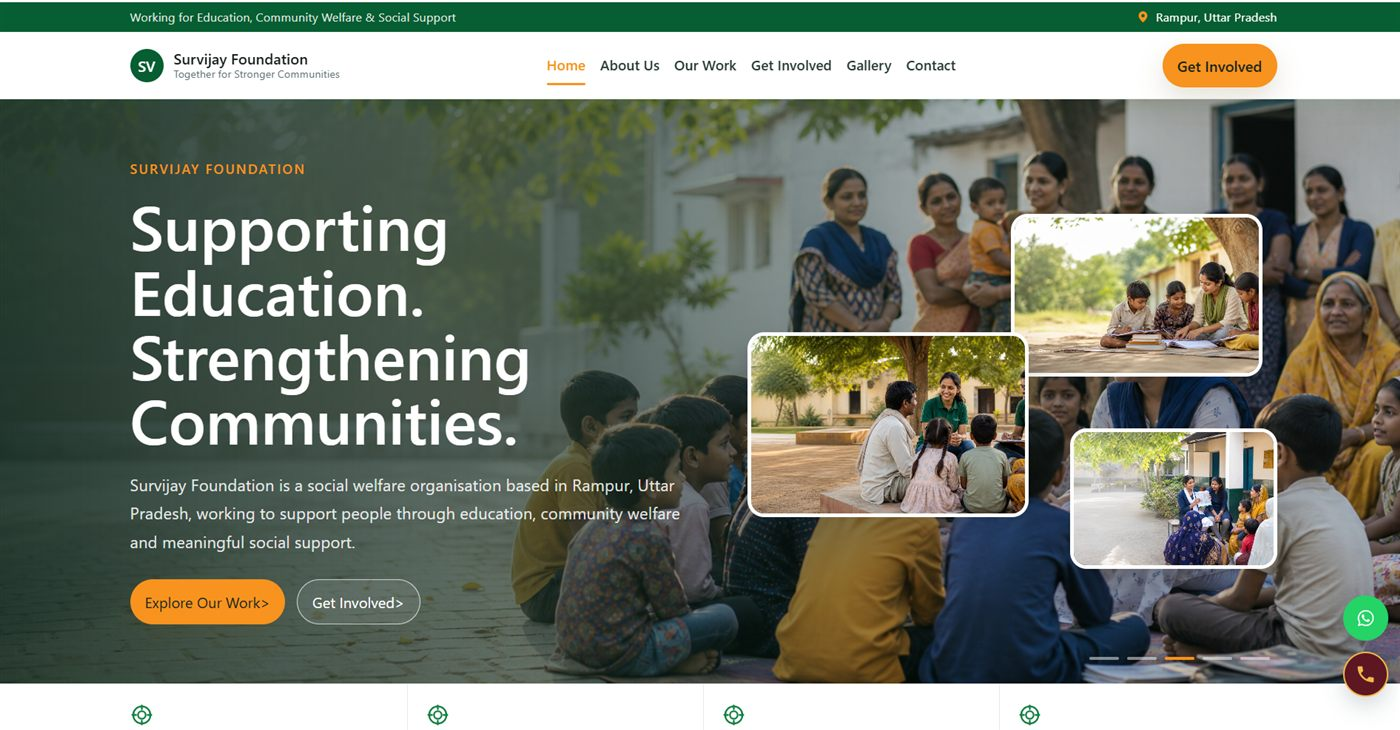
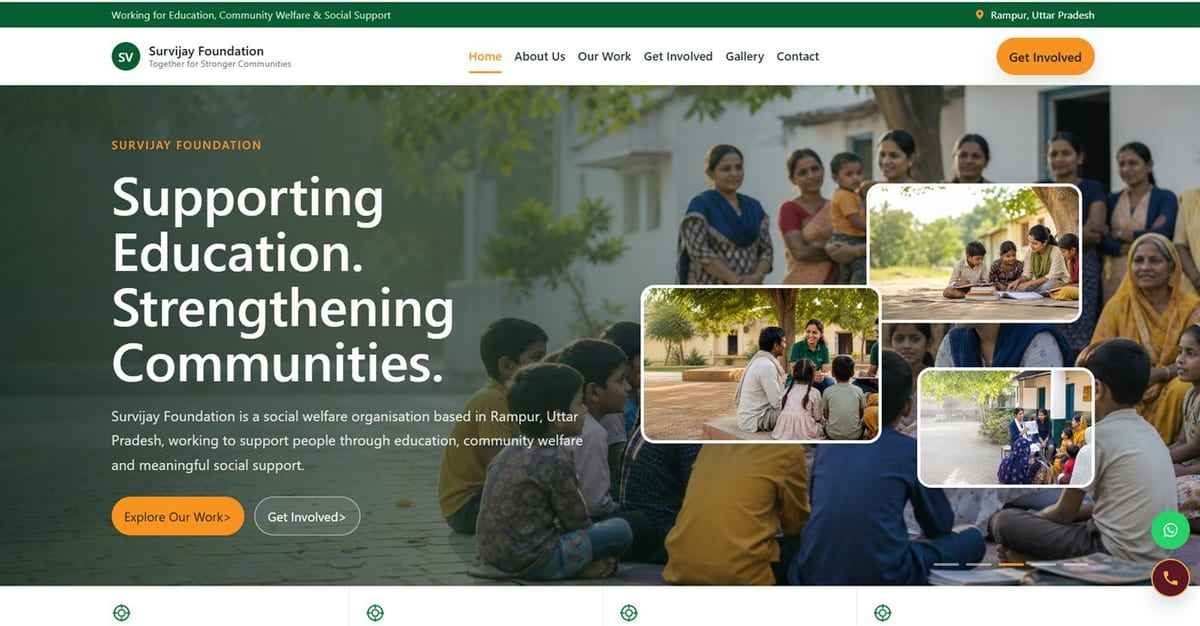
SEo work

diff --git a/lib/seo.ts b/lib/seo.ts
@@ -11,6 +11,9 @@ export function slugUrl(path: string) {
 export const organizationId = `${siteConfig.baseUrl}/#organization`;
 export const websiteId = `${siteConfig.baseUrl}/#website`;
 
+// Default social preview (1200x630). Absolute URL so crawlers never have to resolve it.
+export const ogImage = { url: `${siteConfig.baseUrl}/images/accelise-web-development-og.png`, width: 1200, height: 630, alt: 'Accelise – web development company in Gurgaon and India' };
+
 // Every indexable page builds its metadata here so title, description, canonical and Open Graph always describe the same URL.
 // Titles are passed in full (no layout template) so each one can be tuned to its own length.
 export function pageMetadata({ title, description, path }: { title: string; description: string; path: string }): Metadata {
@@ -20,8 +23,8 @@ export function pageMetadata({ title, description, path }: { title: string; desc
     description,
     alternates: { canonical: url },
     robots: { index: true, follow: true, googleBot: { index: true, follow: true, 'max-image-preview': 'large', 'max-snippet': -1, 'max-video-preview': -1 } },
-    openGraph: { title, description, url, siteName: siteConfig.name, type: 'website', locale: 'en_IN' },
-    twitter: { card: 'summary', title, description },
+    openGraph: { title, description, url, siteName: siteConfig.name, type: 'website', locale: 'en_IN', images: [ogImage] },
+    twitter: { card: 'summary_large_image', title, description, images: [ogImage.url] },
   };
 }
 

diff --git a/app/industries/[slug]/page.tsx b/app/industries/[slug]/page.tsx
@@ -3,7 +3,7 @@ import Link from 'next/link';
 import { notFound } from 'next/navigation';
 import { Breadcrumbs, CTASection, FAQSection, JsonLd, ListBlock, PageHero, PageVisual, RelatedLinks } from '@/components/site';
 import { industries, industryBySlug, projectBySlug, serviceBySlug } from '@/lib/content';
-import { faqSchema, pageMetadata, serviceSchema } from '@/lib/seo';
+import { faqSchema, pageMetadata, serviceSchema, webPageSchema } from '@/lib/seo';
 
 export function generateStaticParams() {
   return industries.map((industry) => ({ slug: industry.slug }));
@@ -60,6 +60,7 @@ export default async function IndustryPage({ params }: { params: Promise<{ slug:
       />
       <FAQSection items={industry.faqs} title={`${industry.shortTitle} websites: common questions`} />
       <CTASection title="Plan your industry website with Accelise" text="Tell us about your business, the enquiries you want and any pages you already have. We will suggest a practical structure and send a clear quote." />
+      <JsonLd data={webPageSchema({ name: industry.seoTitle, description: industry.metaDescription, path: `/industries/${industry.slug}` })} />
       <JsonLd data={serviceSchema({ name: industry.title, description: industry.metaDescription, path: `/industries/${industry.slug}`, serviceType: 'Website development' })} />
       <JsonLd data={faqSchema(industry.faqs)} />
     </main>

diff --git a/app/services/[slug]/page.tsx b/app/services/[slug]/page.tsx
@@ -3,7 +3,7 @@ import Link from 'next/link';
 import { notFound } from 'next/navigation';
 import { Breadcrumbs, CTASection, FAQSection, JsonLd, ListBlock, PageHero, PageVisual, ProjectCards, RelatedLinks } from '@/components/site';
 import { industryBySlug, serviceBySlug, services } from '@/lib/content';
-import { faqSchema, pageMetadata, serviceSchema } from '@/lib/seo';
+import { faqSchema, pageMetadata, serviceSchema, webPageSchema } from '@/lib/seo';
 
 export function generateStaticParams() {
   return services.map((service) => ({ slug: service.slug }));
@@ -64,6 +64,7 @@ export default async function ServiceDetailPage({ params }: { params: Promise<{ 
         links={otherServices.map((item) => ({ href: `/services/${item.slug}`, label: item.title, text: item.summary }))}
       />
       <CTASection title={`Talk to Accelise about ${service.title.toLowerCase().replace('b2b', 'B2B')}`} text="Share your business type, pages, features and timeline to receive a practical consultation before the final quote." />
+      <JsonLd data={webPageSchema({ name: service.seoTitle, description: service.metaDescription, path })} />
       <JsonLd data={serviceSchema({ name: service.title, description: service.metaDescription, path, serviceType: service.title })} />
       <JsonLd data={faqSchema(service.faqs)} />
     </main>

diff --git a/app/layout.tsx b/app/layout.tsx
@@ -3,7 +3,7 @@ import { Inter, Manrope } from 'next/font/google';
 import './globals.css';
 import { JsonLd, LayoutShell } from '@/components/site';
 import { siteConfig, slugUrl, teamMembers } from '@/lib/content';
-import { organizationId, websiteId } from '@/lib/seo';
+import { ogImage, organizationId, websiteId } from '@/lib/seo';
 
 const inter = Inter({ variable: '--font-inter', subsets: ['latin'] });
 const manrope = Manrope({ variable: '--font-manrope', subsets: ['latin'] });
@@ -15,7 +15,7 @@ export const metadata: Metadata = {
   title: { default: 'Web Development Company in India | Accelise', template: '%s | Accelise' },
   description: 'Accelise is a web development company in India building business websites, e-commerce platforms, B2B catalogue websites and custom web applications.',
   applicationName: siteConfig.name,
-  openGraph: { siteName: siteConfig.name, type: 'website', locale: 'en_IN' },
+  openGraph: { siteName: siteConfig.name, type: 'website', locale: 'en_IN', images: [ogImage] },
   formatDetection: { telephone: false },
 };
 

diff --git a/app/web-development-company-gurgaon/page.tsx b/app/web-development-company-gurgaon/page.tsx
@@ -59,7 +59,7 @@ export default function GurgaonPage() {
       <RelatedLinks
         eyebrow="Services"
         title="Web development services in Gurgaon"
-        text="Gurgaon's businesses range from corporate offices and consultancies to manufacturers, clinics, schools, interior studios and retail brands. The right website differs for each, so we start with what your customers need to see and then choose the type of site."
+        text="Gurgaon's businesses range from corporate offices and consultancies to manufacturers, clinics, schools, interior studios and retail brands. The right website differs for each, so we start with what your customers need to see and then choose the type of site. Whether you are looking for a website design company or a full web development agency, design, development, launch and support stay with one team."
         links={gurgaonServices}
       />
 
